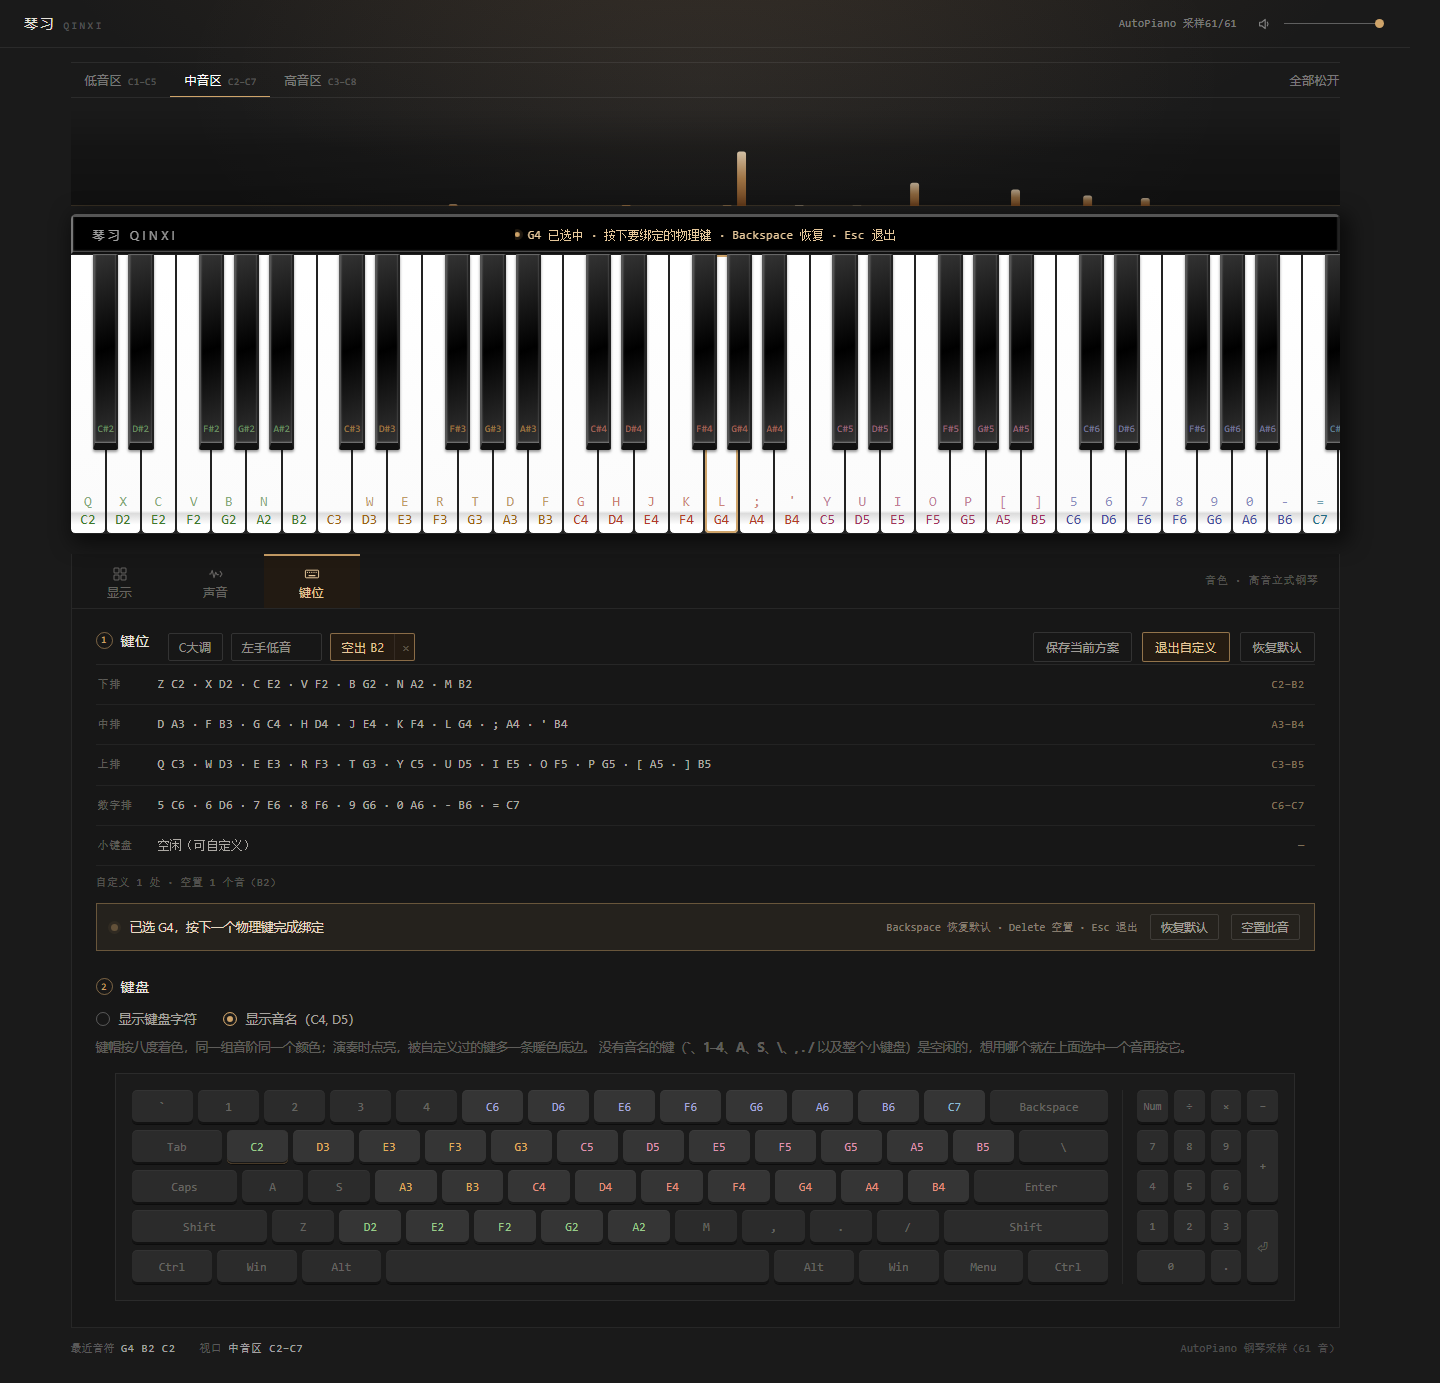
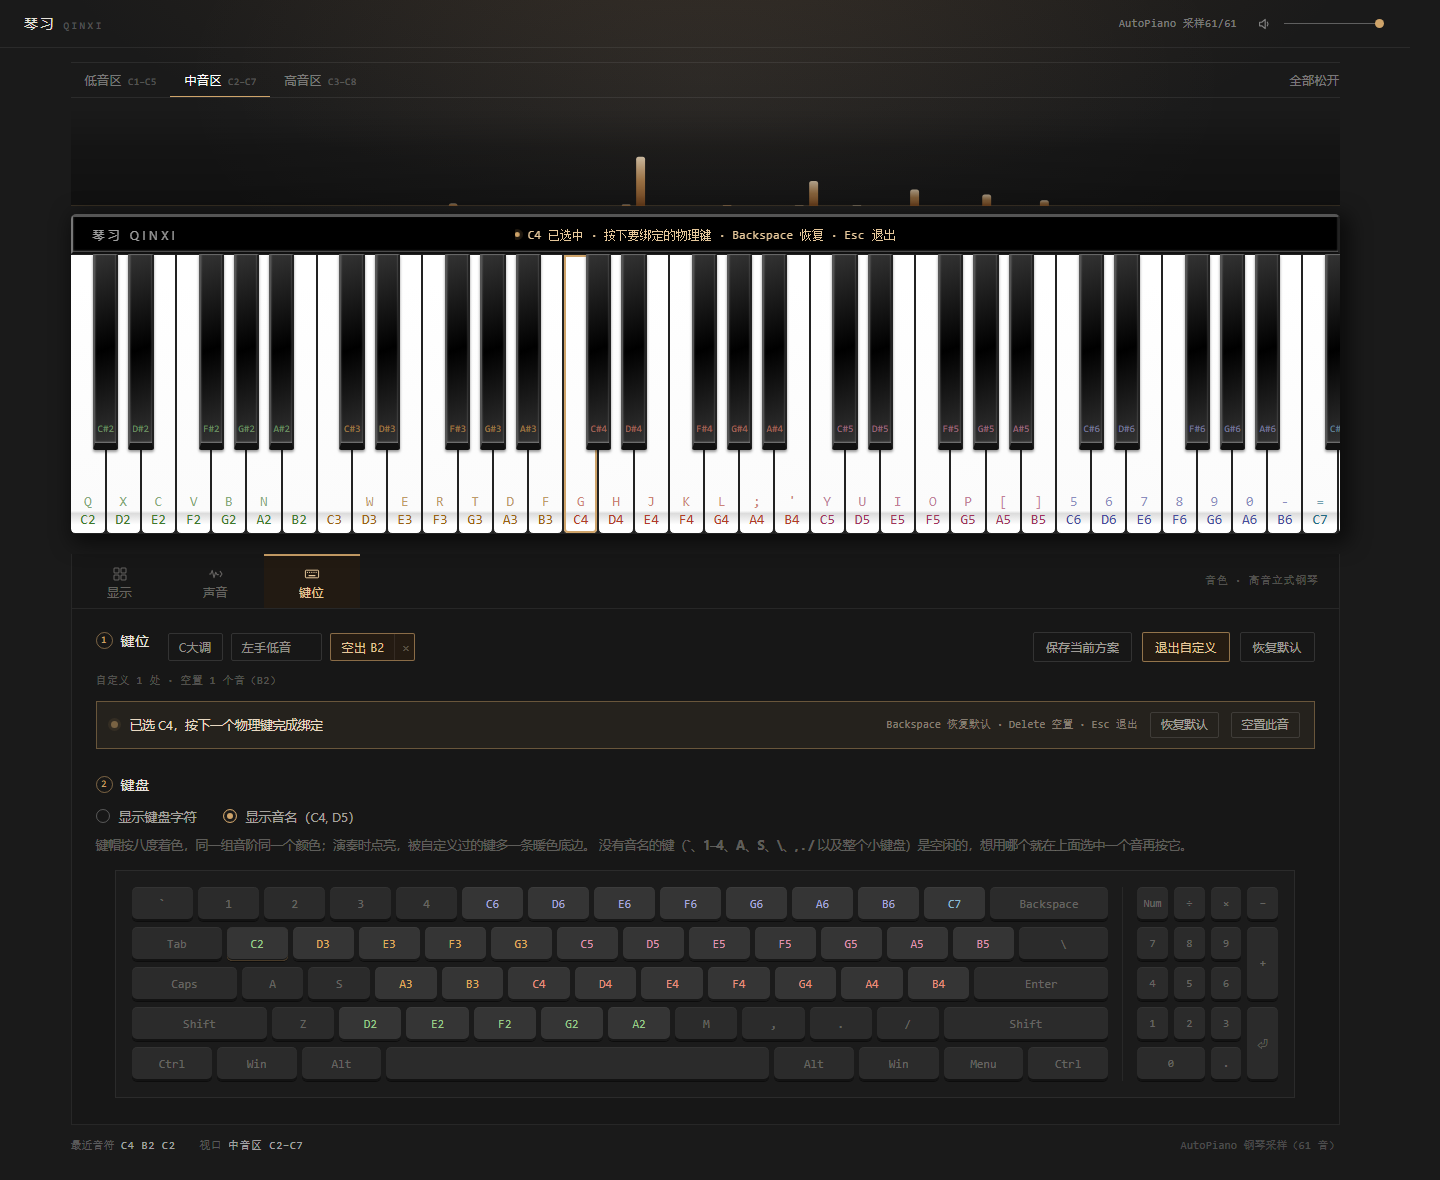
feat: drop the keymap text table, skip saving unchanged presets
- 键位页删掉「下排/中排/上排/数字排/小键盘」文字表：键盘映射图已经把每颗键的音标清楚了，
  这块只是重复一遍；状态行保留（未保存 · 自定义 / 空置的计数在上面）
- 保存方案时内容没变化就不新增：仍是默认布局、或与某个已存方案完全一致时，
  不打开起名框，只在按钮下方提示「与「XXX」内容相同，未新增」
  - 判断复用 activeSchemeId（签名比对），不额外维护状态
  - App 侧再兜一层，避免绕过面板的路径写进重复方案
- README：方案小节补「内容没变化就不新增」，去掉对键位表的描述

diff --git a/src/components/PanelKeymap.vue b/src/components/PanelKeymap.vue
@@ -1,7 +1,7 @@
 <script setup lang="ts">
 import { computed, nextTick, onBeforeUnmount, ref } from 'vue';
 import KeyMapDiagram from './KeyMapDiagram.vue';
-import { KEYMAP_ROWS, type PianoKeyMap } from '@/keyboard/keyMap';
+import type { PianoKeyMap } from '@/keyboard/keyMap';
 import { MAX_SCHEME_NAME, type KeymapScheme } from '@/keyboard/keymapSchemes';
 import { midiToName } from '@/audio/note';
 
@@ -46,6 +46,21 @@ let resetTimer: number | undefined;
 const saving = ref(false);
 const draftName = ref('');
 const nameInput = ref<HTMLInputElement | null>(null);
+/** 「内容没变」的提示：只在点保存时短暂显示 */
+const saveNote = ref('');
+let saveNoteTimer: number | undefined;
+
+/**
+ * 当前键位是否和内置 C大调 / 某个已保存方案完全一致。
+ * `activeSchemeId` 由 App 用签名算出来，为 null 才说明有未保存的改动。
+ */
+const duplicateOf = computed(() => {
+  const id = props.activeSchemeId;
+  if (id === null) return null;
+  if (id === 'default') return '当前就是「C大调」默认键位';
+  const same = props.schemes.find((item) => item.id === id);
+  return same ? `与「${same.name}」内容相同` : null;
+});
 
 const clearedNames = computed(() =>
   [...props.keyMap.clearedPitches].sort((a, b) => a - b).map((pitch) => midiToName(pitch)),
@@ -81,6 +96,16 @@ function nextName(): string {
 }
 
 function startSave(): void {
+  // 内容没变化就不该再存一份：直接说明，不打开起名框
+  if (duplicateOf.value) {
+    saveNote.value = `${duplicateOf.value}，未新增`;
+    window.clearTimeout(saveNoteTimer);
+    saveNoteTimer = window.setTimeout(() => {
+      saveNote.value = '';
+    }, 3600);
+    return;
+  }
+  saveNote.value = '';
   saving.value = true;
   draftName.value = nextName();
   void nextTick(() => {
@@ -116,7 +141,10 @@ function onReset(): void {
   emit('reset');
 }
 
-onBeforeUnmount(() => window.clearTimeout(resetTimer));
+onBeforeUnmount(() => {
+  window.clearTimeout(resetTimer);
+  window.clearTimeout(saveNoteTimer);
+});
 </script>
 
 <template>
@@ -178,6 +206,8 @@ onBeforeUnmount(() => window.clearTimeout(resetTimer));
       </div>
     </div>
 
+    <p v-if="saveNote" class="save-note">{{ saveNote }}</p>
+
     <form v-if="saving" class="save-form" @submit.prevent="submitSave">
       <input
         ref="nameInput"
@@ -193,14 +223,6 @@ onBeforeUnmount(() => window.clearTimeout(resetTimer));
       <button type="button" class="ghost ghost--small" @click="cancelSave">取消</button>
       <span class="save-form__tip">只存与默认布局不同的键位 · 回车确认</span>
     </form>
-
-    <div class="layout" role="table" aria-label="默认键位布局">
-      <div v-for="row in KEYMAP_ROWS" :key="row.label" class="layout__row" role="row">
-        <span class="layout__label" role="cell">{{ row.label }}</span>
-        <span class="layout__keys" role="cell">{{ row.keys }}</span>
-        <span class="layout__range" role="cell">{{ row.range }}</span>
-      </div>
-    </div>
 
     <p class="status">{{ statusText }}</p>
 
@@ -357,6 +379,15 @@ onBeforeUnmount(() => window.clearTimeout(resetTimer));
   color: #e8b4a2;
 }
 
+/* 「内容没变化」的提示：不打开起名框，就在按钮下方说一句 */
+.save-note {
+  margin: 10px 0 0;
+  font-family: ui-monospace, 'SF Mono', Menlo, Consolas, monospace;
+  font-size: 11.5px;
+  letter-spacing: 0.03em;
+  color: #d9a97c;
+}
+
 /* 保存方案：就地起名，不用浏览器弹窗 */
 .save-form {
   display: flex;
@@ -396,43 +427,6 @@ onBeforeUnmount(() => window.clearTimeout(resetTimer));
   font-size: 11px;
   letter-spacing: 0.03em;
   color: rgba(232, 217, 194, 0.42);
-}
-
-/* 默认布局：一排一个八度的文字表 */
-.layout {
-  display: flex;
-  flex-direction: column;
-  border-top: 1px solid rgba(255, 255, 255, 0.07);
-}
-
-.layout__row {
-  display: grid;
-  grid-template-columns: 46px minmax(0, 1fr) auto;
-  gap: 14px;
-  align-items: baseline;
-  padding: 8px 10px 8px 2px;
-  border-bottom: 1px solid rgba(255, 255, 255, 0.055);
-  font-family: ui-monospace, 'SF Mono', Menlo, Consolas, monospace;
-  font-size: 12px;
-}
-
-.layout__label {
-  color: rgba(231, 227, 220, 0.34);
-  font-size: 11px;
-  letter-spacing: 0.06em;
-}
-
-.layout__keys {
-  letter-spacing: 0.02em;
-  line-height: 1.95;
-  color: rgba(231, 227, 220, 0.74);
-}
-
-.layout__range {
-  font-size: 11px;
-  letter-spacing: 0.05em;
-  color: rgba(229, 199, 154, 0.5);
-  white-space: nowrap;
 }
 
 .status {

diff --git a/src/App.vue b/src/App.vue
@@ -212,6 +212,18 @@ function applyScheme(id: string): void {
 
 /** 把当前键位存成一个具名方案（只存与默认布局不同的条目） */
 function saveScheme(rawName: string): void {
+  // 内容没变化就不新增：默认布局、或与某个已存方案完全一致
+  const signature = bindingsSignature(customBindings.value);
+  if (signature === '') {
+    flash('当前就是「C大调」默认键位，未新增');
+    return;
+  }
+  const same = schemes.value.find((item) => bindingsSignature(item.bindings) === signature);
+  if (same) {
+    flash(`与「${same.name}」内容相同，未新增`);
+    return;
+  }
+
   const name = rawName.trim().slice(0, MAX_SCHEME_NAME);
   if (!name) {
     flash('方案名不能为空');

diff --git a/README.md b/README.md
@@ -105,7 +105,7 @@ docs/screenshots/  界面截图（PR 用）
 接入新采样只需修改 `src/data/instruments.ts` 里对应条目的 `available`，面板结构不用动。
 音量与顶栏滑块共用同一个 `volume`，双向同步。
 
-**键位** —— 方案标签（C大调 + 保存过的方案）、键位表、保存 / 自定义 / 空置、以及**电脑键盘映射图**：
+**键位** —— 方案标签（C大调 + 保存过的方案）、保存 / 自定义 / 空置、以及**电脑键盘映射图**：
 5 排键帽按 15 个单位宽度排版，右侧挂一块小键盘；有映射的键按八度着色显示音名
 （可切换成键盘字符），演奏时对应键帽点亮，被自定义过的键多一条暖色底边。
 
@@ -162,6 +162,9 @@ docs/screenshots/  界面截图（PR 用）
 
 **保存**：点「保存当前方案」→ 就地起名（默认 `方案 1`，回车确认 / `Esc` 取消）→
 标签立刻出现在 **C大调 右边**。名字最多 16 字，重名会被拒绝。
+
+**内容没变化就不新增**：当前键位仍是默认布局、或与某个已存方案完全一致时，点保存不会打开起名框，
+只在按钮下方提示「与「XXX」内容相同，未新增」——避免攒出一堆一模一样的标签。
 
 - 方案里存的仍是**差量**（绑定 + 空置），与 `qinxi:keymap:v1` 同一套条目；
 - 存在 `localStorage` 的 `qinxi:keymap:schemes:v1`，刷新后仍在；
